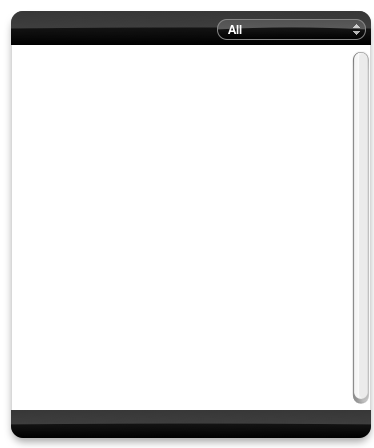
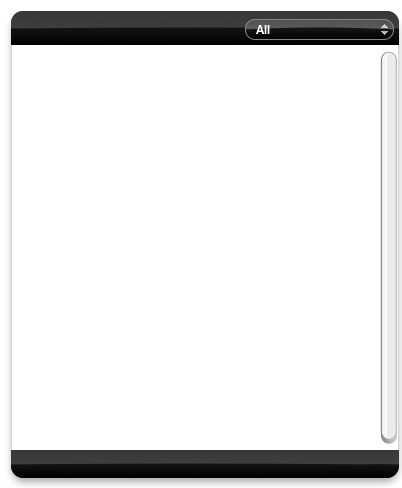
updates

Changed region(s): [[0.0294, 0.0, 1.0, 1.0]]

diff --git a/project.wdgt/Content/branching.html b/project.wdgt/Content/branching.html
@@ -12,54 +12,54 @@
             List all local branches.
         </dd>
 
-        <dt class="gitcheatterm">git branch <span class="gitcheatargument">new-branch-name</span></dt>
+        <dt class="gitcheatterm">git branch <span class="gitcheatargument">new-brname</span></dt>
         <dd class="gitcheatdefinition">
-            Create a new branch named <span class="gitcheatargument">new-branch-name</span>, referencing the same point in history as the current branch.
+            Create a new branch named <span class="gitcheatargument">new-brname</span>, referencing the same point in history as the current branch.
         </dd>
 
-        <dt class="gitcheatterm">git branch <span class="gitcheatargument">new-branch-name</span> <span class="gitcheatargument">start-point-rev</span></dt>
+        <dt class="gitcheatterm">git branch <span class="gitcheatargument">new-brname</span> <span class="gitcheatargument">rev</span></dt>
         <dd class="gitcheatdefinition">
-            Create a new branch named <span class="gitcheatargument">new-branch-name</span>, referencing <span class="gitcheatargument">start-point-rev</span>, which may be specified using a SHA1 commit ID, branch name, or tag.
+            Create a new branch named <span class="gitcheatargument">new-brname</span>, referencing <span class="gitcheatargument">rev</span>, which may be specified using a SHA1 commit ID, branch name, or tag.
         </dd>
 
-        <dt class="gitcheatterm">git branch --track <span class="gitcheatargument">new-branch-name</span> <span class="gitcheatargument">remote-name</span>/remote-branch-name</span></dt>
+        <dt class="gitcheatterm">git branch --track <span class="gitcheatargument">new-brname</span> <span class="gitcheatargument">remote</span>/<span class="gitcheatargument">remote-brname</span></dt>
         <dd class="gitcheatdefinition">
-            Create a new tracking branch named <span class="gitcheatargument">new-branch-name</span>, referencing, and pushing/pulling from, branch <span class="gitcheatargument">remote-branch-name</span>, on remote repository <span class="gitcheatargument">remote-name</span>.
+            Create a new tracking branch named <span class="gitcheatargument">new-brname</span>, referencing, and pushing/pulling from, branch <span class="gitcheatargument">remote-brname</span>, on remote repository <span class="gitcheatargument">remote</span>.
         </dd>
 
-        <dt class="gitcheatterm">git branch -d <span class="gitcheatargument">branch-name</span></dt>
+        <dt class="gitcheatterm">git branch -d <span class="gitcheatargument">brname</span></dt>
         <dd class="gitcheatdefinition">
-            Delete the local branch <span class="gitcheatargument">branch-name</span> (fails if <span class="gitcheatargument">branch-name</span> is not reachable from the current branch).
+            Delete the local branch <span class="gitcheatargument">brname</span> (fails if <span class="gitcheatargument">brname</span> is not reachable from the current branch).
         </dd>
 
-        <dt class="gitcheatterm">git branch -D <span class="gitcheatargument">branch-name</span></dt>
+        <dt class="gitcheatterm">git branch -D <span class="gitcheatargument">brname</span></dt>
         <dd class="gitcheatdefinition">
-            Force delete of the local branch <span class="gitcheatargument">branch-name</span> (works even if <span class="gitcheatargument">branch-name</span> is not reachable from the current branch).
+            Force delete of the local branch <span class="gitcheatargument">brname</span> (works even if <span class="gitcheatargument">brname</span> is not reachable from the current branch).
         </dd>
 
-        <dt class="gitcheatterm">git branch -d -r <span class="gitcheatargument">remote-name</span>/<span class="gitcheatargument">remote-branch-name</span></dt>
+        <dt class="gitcheatterm">git branch -d -r <span class="gitcheatargument">remote</span>/<span class="gitcheatargument">remote-brname</span></dt>
         <dd class="gitcheatdefinition">
             Delete a &quot;local remote&quot; branch, i.e. a local tracking branch.
         </dd>
 
-        <dt class="gitcheatterm">git push <span class="gitcheatargument">remote-name</span> :heads/<span class="gitcheatargument">remote-branch-name</span></dt>
+        <dt class="gitcheatterm">git push <span class="gitcheatargument">remote</span> :heads/<span class="gitcheatargument">remote-brname</span></dt>
         <dd class="gitcheatdefinition">
             Delete a branch from a remote repository.
         </dd>
 
-        <dt class="gitcheatterm">git checkout <span class="gitcheatargument">branch-name</span></dt>
+        <dt class="gitcheatterm">git checkout <span class="gitcheatargument">brname</span></dt>
         <dd class="gitcheatdefinition">
-            Make the current branch <span class="gitcheatargument">branch-name</span>, updating the working directory to reflect the version referenced by <span class="gitcheatargument">branch-name</span>.
+            Make the current branch <span class="gitcheatargument">brname</span>, updating the working directory to reflect the version referenced by <span class="gitcheatargument">brname</span>.
         </dd>
 
-        <dt class="gitcheatterm">git checkout -b <span class="gitcheatargument">new-branch-name</span></dt>
+        <dt class="gitcheatterm">git checkout -b <span class="gitcheatargument">new-brname</span></dt>
         <dd class="gitcheatdefinition">
-            Create a new branch <span class="gitcheatargument">new-branch-name</span>, referencing the current point, and check it out (switch to it).
+            Create a new branch <span class="gitcheatargument">new-brname</span>, referencing the current point, and check it out (switch to it).
         </dd>
 
-        <dt class="gitcheatterm">git checkout -b <span class="gitcheatargument">new-branch-name</span> <span class="gitcheatargument">start-point-rev</span></dt>
+        <dt class="gitcheatterm">git checkout -b <span class="gitcheatargument">new-brname</span> <span class="gitcheatargument">rev</span></dt>
         <dd class="gitcheatdefinition">
-            Create a new branch <span class="gitcheatargument">new-branch-name</span>, referencing <span class="gitcheatargument">start-point-rev</span>, which may be specified using a SHA1 commit ID, branch name, or tag, and check it out (switch to it).
+            Create a new branch <span class="gitcheatargument">new-brname</span>, referencing <span class="gitcheatargument">rev</span>, which may be specified using a SHA1 commit ID, branch name, or tag, and check it out (switch to it).
         </dd>
 
     </dl>

diff --git a/project.wdgt/GitCommands.html b/project.wdgt/GitCommands.html
@@ -68,6 +68,12 @@
     
     
     
+    
+    
+    
+    
+    
+    
     <div id="content" class="content" apple-group="scrollArea" style="position: absolute; left: 0px; top: 0px; right: 22px; bottom: 0px; overflow-x: hidden; overflow-y: hidden; ">
 	
     <div id="maincontent"></div>
@@ -78,7 +84,7 @@
     <div apple-part="com.apple.Dashcode.part.bottomrectangleshape" class="apple-no-children" apple-style="image-theme: 0; image-shape: 10; image-button-type: 3; image-opacity: 1.00; image-top-color: 0.0000,0.0000,0.0000; image-bottom-color: 1.0000,1.0000,1.0000; image-radius: -1,-1,12,12; image-border: 0; image-border-color: 0.0000,0.0000,0.0000; image-border-width: 1; shine-on: 1; shine-strength: 0.27; shine-alpha-level: 0.67; shine-height: 0.50; glass-arc-height: 0.06; shadow-include-shadow: 0; shadow-blur: 3.00;" id="bottomRectangleShape" apple-group="bottomRectangleShape"></div>
     <div class="apple-no-children" id="info" apple-part="com.apple.Dashcode.part.infobutton" apple-default-image-visibility="hidden"></div>
     </div>
-    <div id="back">
+    <div id="back" style="display: none; ">
        <img id="backImg" src="Images/back.png" alt="" apple-locked="true" apple-part="com.apple.Dashcode.part.backimage" apple-style=" image-radius: 12,12,12,12; image-border: 1; image-border-color: 0.1500,0.1500,0.1500; image-border-width: 3; shadow-include-shadow: 1; shadow-blur: 9.00; shadow-offset: -1.00,-6.00; shadow-color: 0.0000,0.0000,0.0000,0.3333;">
         <img src="Images/DevelopedWith.png" alt="Created with Dashcode" id="backDevelopedWith">
         <div id="done" class="apple-no-children" apple-part="com.apple.Dashcode.part.glassbutton"></div>

diff --git a/project.wdgt/GitCommands.css b/project.wdgt/GitCommands.css
@@ -66,12 +66,12 @@ body {
 
 #topRectangleShape {
     position: absolute;
-    height: 34px;
-    bottom: 403px;
-    margin-top: auto;
     right: 3px;
     width: auto;
     left: 11px;
+    top: 11px;
+    bottom: 403px;
+    height: auto;
 }
 
 #scrollArea {
@@ -105,18 +105,18 @@ body {
     text-align: left;
     height: 21px;
     width: 149px;
-    left: 217px;
     top: 19px;
+    left: 245px;
 }
 
 #bottomRectangleShape {
     position: absolute;
-    top: 410px;
     right: 3px;
     width: auto;
-    bottom: 10px;
-    height: auto;
     left: 11px;
+    height: 28px;
+    bottom: 10px;
+    margin-top: auto;
 }
 
 #body {
@@ -130,5 +130,5 @@ body {
     width: 139px;
     color: rgb(255, 255, 255);
     top: 19px;
-    left: 32px;
+    left: 22px;
 }
